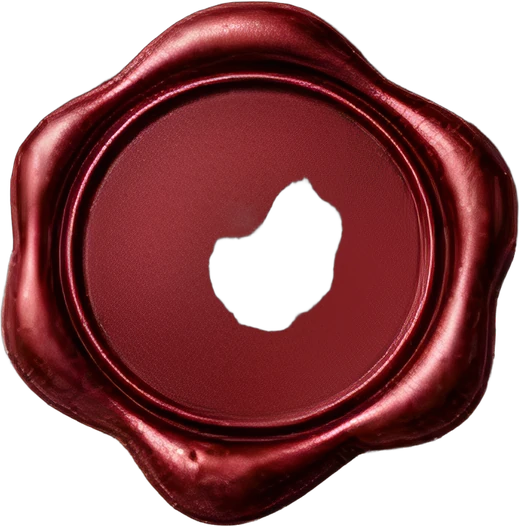
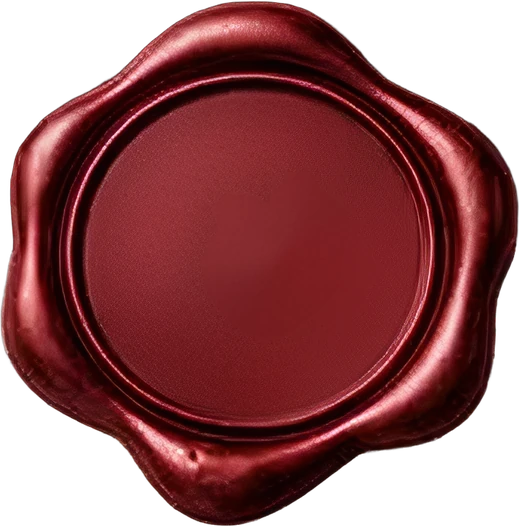
هدية عيد الميلاد: الختم الأحمر اتقفل (كان فيه خرم شفاف مكان الحرف). الرئيسية أخف في أول فتحة:
- قايمة التصاميم بتتطلب مع أول بايت من الصفحة (كانت بتستنى كود الموقع وتتزاحم مع الفيديو: ~5 ثواني على نت الموبايل).
- فيديو الهيرو (0.4 ميجا) وفيديو شرح المحرر (0.5 ميجا) مابيتحمّلوش مع أول ثانية — الأول بعد ما الصفحة تهدى، والتاني لما يبان.
- الزائر اللي مش مسجّل مابينزّلش كود لوحة العميل والدفع ومكتبة الرسوم (~0.5 ميجا) وهو بيتفرّج.
- النزول التلقائي على الموبايل بيبدأ والمتصفح هادي (بعد ما كود الصفحة وبيكسل الإعلانات يخلصوا شغلهم) — البيكسل نفسه ماتلمسش.

Claude-Session: https://claude.ai/code/session_01VKo1mDPNtVn8Qfu3XE46sB

Changed region(s): [[0.4, 0.334, 0.6769, 0.6376]]

diff --git a/client/src/App.jsx b/client/src/App.jsx
@@ -2,6 +2,7 @@ import { Suspense, lazy, useEffect, useState } from 'react';
 import { Routes, Route, useLocation, useNavigationType } from 'react-router-dom';
 import AuthBar from './components/AuthBar.jsx';
 import { useSelector } from 'react-redux';
+import { useGetMeQuery } from './store/api.js';
 import WelcomeGate from './components/WelcomeGate.jsx';
 import OrderNoticeGate from './components/OrderNoticeGate.jsx';
 import SupportLauncher from './components/SupportLauncher.jsx';
@@ -76,21 +77,32 @@ function AuthModalGate() {
 startCampaignBeacon();
 
 function usePrefetchPages() {
+  const { data: me, isLoading: meLoading } = useGetMeQuery();
+  const loggedIn = !!me?.user;
   useEffect(() => {
+    if (meLoading) return undefined;
     let cancelled = false;
     const run = () => {
       if (cancelled) return;
       // على شبكة موفّرة للبيانات مبنحمّلش حاجة زيادة
       const c = navigator.connection;
       if (c && (c.saveData || /2g/.test(c.effectiveType || ''))) return;
-      [importAuthModal, importPackages, importDashboard, importCreate, importCheckout].forEach((f) => f().catch(() => {}));
+      // زائر مش مسجّل: نافذة الدخول والباقات بس (دول اللي هيدوس عليهم). لوحة العميل والدفع
+      // (ومعاهم مكتبة الرسوم، ~0.5 ميجا) للّي داخل بحسابه — كانوا بينزلوا ويتنفّذوا لكل زائر
+      // في نفس اللحظة اللي الصفحة بتنزل فيها للمعرض، فالحركة كانت بتعلّق.
+      const list = loggedIn
+        ? [importAuthModal, importPackages, importDashboard, importCreate, importCheckout]
+        : [importAuthModal, importPackages];
+      list.forEach((f) => f().catch(() => {}));
     };
     const idle = window.requestIdleCallback || ((cb) => setTimeout(cb, 2500));
-    const start = () => idle(run, { timeout: 6000 });
+    let timer = 0;
+    // بعد ما الصفحة تهدى (والنزول التلقائي على الموبايل يخلص)
+    const start = () => { timer = window.setTimeout(() => idle(run, { timeout: 6000 }), loggedIn ? 1500 : 12000); };
     if (document.readyState === 'complete') start();
     else window.addEventListener('load', start, { once: true });
-    return () => { cancelled = true; window.removeEventListener('load', start); };
-  }, []);
+    return () => { cancelled = true; window.clearTimeout(timer); window.removeEventListener('load', start); };
+  }, [loggedIn]);
 }
 
 /** شاشة انتظار خفيفة لحد ما كود الصفحة يوصل (غالبًا مش بتلحق تبان) */

diff --git a/client/src/lib/homeScroll.js b/client/src/lib/homeScroll.js
@@ -142,7 +142,34 @@ export function startHomeScroll() {
 
   // 3) أول فتحة على الموبايل
   if (!isPhone() || introDone) return () => {};
-  const timer = setTimeout(() => {
+  // بيبدأ والمتصفح هادي: كود الصفحة والسكريبتات الخارجية (بيكسل الإعلانات ~0.3 ثانية شغل
+  // متواصل على موبايل متوسط) كانوا بيتنفّذوا في نص الحركة فتعلّق وتنط. بنستنى لحد ما يعدّي
+  // نص ثانية من غير شغل تقيل — وبحد أقصى 3 ثواني. البيكسل نفسه مابيتلمسش ولا بيتأخر.
+  let gone = false;
+  const whenQuiet = (fn) => {
+    const t0 = performance.now();
+    let lastBusy = t0;
+    let po = null;
+    try { po = new PerformanceObserver(() => { lastBusy = performance.now(); }); po.observe({ type: 'longtask' }); } catch { po = null; }
+    const pixelBusy = () => {
+      try {
+        if (typeof window.fbq !== 'function') return false;
+        if (!window.fbq.callMethod) return true;
+        return !performance.getEntriesByType('resource').some((r) => r.name.indexOf('/signals/config/') !== -1);
+      } catch { return false; }
+    };
+    const iv = setInterval(() => {
+      const now = performance.now();
+      const waited = now - t0;
+      if (gone) { clearInterval(iv); if (po) po.disconnect(); return; }
+      if (waited < 3000 && (pixelBusy() || now - lastBusy < 500 || document.readyState !== 'complete')) return;
+      clearInterval(iv); if (po) po.disconnect();
+      fn();
+    }, 120);
+    cleanups.push(() => clearInterval(iv));
+  };
+  const timer = setTimeout(() => whenQuiet(() => {
+    if (gone) return;
     introDone = true;
     // نزل بنفسه خلاص / نافذة مفتوحة / التاب مش ظاهر — مش هنحرّك حاجة
     if (window.scrollY > 40 || modalOpen() || document.visibilityState !== 'visible') return;
@@ -155,7 +182,7 @@ export function startHomeScroll() {
       // وصل (مش اتوقف بلمسة): يفضل العنوان في مكانه لو حاجة فوقه اتحمّلت
       if (!finished && Math.abs(target() - window.scrollY) < 6) { finished = true; hold(title, 1500); }
     }));
-  }, 1200);
-  cleanups.push(() => clearTimeout(timer));
+  }), 1200);
+  cleanups.push(() => { gone = true; clearTimeout(timer); });
   return () => cleanups.forEach((c) => c());
 }

diff --git a/client/src/components/HeroDemo.jsx b/client/src/components/HeroDemo.jsx
@@ -33,14 +33,22 @@ export default function HeroDemo() {
     const el = wrapRef.current;
     const v = videoRef.current;
     if (!el || !v || typeof IntersectionObserver === 'undefined') return undefined;
+    // الفيديو مبيتحمّلش غير بعد ما الصفحة تخلص تحميل وتهدى (كان بينزل مع أول ثانية ويزاحم
+    // التصاميم والخطوط على نت الموبايل — وعلى الموبايل الصفحة بتنزل للمعرض أصلًا). لحد ساعتها
+    // صورة البوستر هي اللي ظاهرة.
+    let ready = false;
+    let visible = false;
+    let timer = 0;
+    const sync = () => { if (ready && visible) v.play().catch(() => {}); else if (!v.paused) v.pause(); };
+    const arm = () => { timer = window.setTimeout(() => { ready = true; sync(); }, 3500); };
+    if (document.readyState === 'complete') arm();
+    else window.addEventListener('load', arm, { once: true });
     const io = new IntersectionObserver((entries) => {
-      entries.forEach((e) => {
-        if (e.isIntersecting) v.play().catch(() => {});
-        else v.pause();
-      });
+      entries.forEach((e) => { visible = e.isIntersecting; });
+      sync();
     }, { threshold: 0.25 });
     io.observe(el);
-    return () => io.disconnect();
+    return () => { io.disconnect(); window.clearTimeout(timer); window.removeEventListener('load', arm); };
   }, []);
 
   return (
@@ -73,7 +81,7 @@ export default function HeroDemo() {
               muted
               loop
               playsInline
-              preload="metadata"
+              preload="none"
               aria-label={t('heroDemo.alt')}
             >
               <source src={LOOP_WEBM} type="video/webm" />

diff --git a/client/index.html b/client/index.html
@@ -5,6 +5,23 @@
   <head>
     <meta charset="UTF-8" />
     <meta name="viewport" content="width=device-width, initial-scale=1.0" />
+    <!-- الرئيسية: قايمة التصاميم بتتطلب من دلوقتي — بالتوازي مع تحميل كود الموقع — (والسكريبت ده قبل ستايل الخطوط عن قصد) بدل ما تستنى
+         الكود يتحمّل ويشتغل وبعدين تتزاحم مع الفيديو والخطوط (كانت بتوصل بعد ~5 ثواني على نت الموبايل).
+         store/api.js بياخد النتيجة دي أول مرة. -->
+    <script>
+      try {
+        if (location.pathname === '/') {
+          var __l = 'ar';
+          try { if (localStorage.getItem('wda_lang') === 'en') __l = 'en'; } catch (e) { /* تصفح خاص */ }
+          window.__mithaqEarly = {
+            lang: __l,
+            templates: fetch('/api/templates?lang=' + __l, { credentials: 'include' })
+              .then(function (r) { return r.ok ? r.json() : null; })
+              .catch(function () { return null; }),
+          };
+        }
+      } catch (e) { /* متصفح قديم: الطلب العادي هيشتغل */ }
+    </script>
     <!-- العنوان والوصف ده لجوجل (فيه الكلمات اللي الناس بتدوّر بيها). السيرفر
          بيغيّرهم لكل صفحة عامة (utils/seo.js) — غيّرهم هناك كمان. -->
     <title>ميثاق | دعوة زفاف إلكترونية — اعمل دعوة فرحك أونلاين بلينك خاص</title>

diff --git a/client/src/store/api.js b/client/src/store/api.js
@@ -15,7 +15,18 @@ export const api = createApi({
   endpoints: (builder) => ({
     // بنبعت اللغة عشان أسماء التصاميم وأوصافها وأسماء الأقسام ترجع مترجمة
     getTemplates: builder.query({
-      query: (lang = 'en') => `/templates?lang=${encodeURIComponent(lang)}`,
+      // أول طلب في الرئيسية بيكون اتبعت خلاص من index.html (window.__mithaqEarly) قبل ما الكود
+      // ده يتحمّل — بناخد نتيجته مرة واحدة. أي حاجة غير كده (لغة تانية، فشل) = الطلب العادي.
+      async queryFn(lang = 'en', _api, _extra, fetchWithBQ) {
+        const early = typeof window !== 'undefined' ? window.__mithaqEarly : null;
+        if (early && early.templates && early.lang === lang) {
+          const pending = early.templates;
+          early.templates = null;
+          const data = await pending;
+          if (Array.isArray(data)) return { data };
+        }
+        return fetchWithBQ(`/templates?lang=${encodeURIComponent(lang)}`);
+      },
     }),
     getPublicStats: builder.query({
       query: () => '/public-stats',

diff --git a/views/birthday-gift.html b/views/birthday-gift.html
@@ -283,7 +283,7 @@ html.ar .end-d{letter-spacing:.3em!important;font-family:'Playfair Display','Tim
   <!-- 2) الكارت -->
   <section class="hero">
     <div class="hcard paper">
-      <div class="seal"><img src="/templates/birthday-gift/seal-red.webp" alt="" draggable="false"><span class="seal-t" data-elem-id="bg1" data-f="mono" dir="auto"></span></div>
+      <div class="seal"><img src="/templates/birthday-gift/seal-red.webp?v=2" alt="" draggable="false"><span class="seal-t" data-elem-id="bg1" data-f="mono" dir="auto"></span></div>
       <p class="h-k" data-elem-id="bg2"></p>
       <div class="h-art">
         <span class="h-s1 fit" data-elem-id="bg3" dir="auto"></span>

diff --git a/client/src/components/TemplateCard.jsx b/client/src/components/TemplateCard.jsx
@@ -108,6 +108,7 @@ export default function TemplateCard({ template, index }) {
               src={templateThumb(template.id)}
               alt={gift ? `هدية عيد ميلاد إلكترونية ${template.name}` : `معاينة تصميم ${template.name}`}
               loading="lazy"
+              decoding="async"
               className="h-full w-full object-cover object-center"
               onError={() => setImgError(true)}
             />

diff --git a/client/src/lib/thumbs.js b/client/src/lib/thumbs.js
@@ -5,6 +5,8 @@
 const THUMB_VERSION = {
   // 2026-11-10: بقت الظرف من بره بختم القلب بدل الكارت اللي جوه (بطلب المالك)
   'mother-of-pearl': 2,
+  // 2026-11-12: الختم اتقفل (كان فيه خرم مكان الحرف)
+  'birthday-gift': 2,
 };
 
 /** لينك صورة القالب (suffix: '' أو '-ar' أو '-en') */

diff --git a/client/src/components/EditorDemo.jsx b/client/src/components/EditorDemo.jsx
@@ -82,8 +82,7 @@ export default function EditorDemo({ variant = 'section' }) {
             muted
             loop
             playsInline
-            autoPlay
-            preload="metadata"
+            preload="none"
             aria-label={t('demo.title')}
           >
             <source src={LOOP_WEBM} type="video/webm" />
